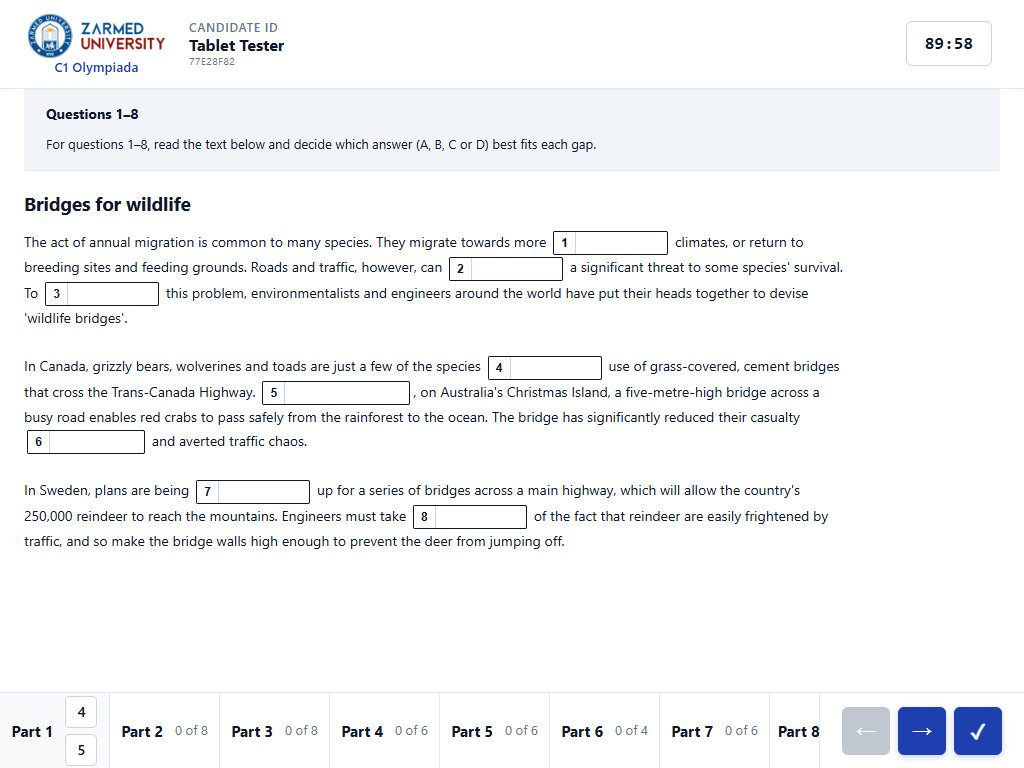
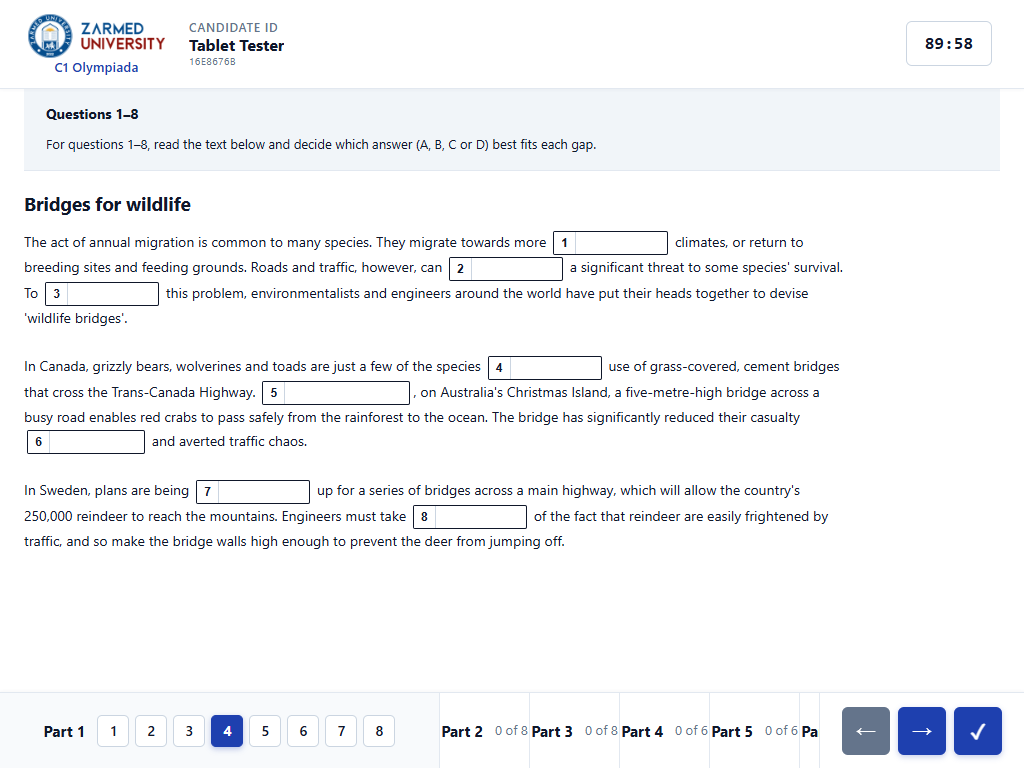
eye: round 28b — fix active-nav question number clipping at 1024x768
Real T2 student-facing bug found while walking the tablet viewport.

At 1024x768 (common lab-PC resolution), a student opening Part 1 saw
ONLY "Part 1" in the active nav cell — all 8 question numbers were
rendered but clipped OUTSIDE the cell's visual bounds. Same for Part 4
(showed 2/6 numbers) and Part 8 (showed 0/10). The buttons physically
existed in the DOM (round 22's question-number badges), but the
active cell's flex: 3.5 share at 1024px collapsed to ~113px wide,
forcing the numbers into a wrapped 2-3 row stack that overflowed the
76px fixed nav bar height.

Measured at 1024x768 with Part 4 active BEFORE fix:
  activeCell: y=693-768 (75px tall)
  q25: y=620-652 — ABOVE the cell (hidden, above viewport)
  q26: y=658-690 — ABOVE the cell
  q27: y=696-728 — inside ✓
  q28: y=734-766 — inside ✓
  q29: y=772-804 — BELOW the viewport
  q30: y=810-842 — BELOW

A student on Part 4 would see "Part 4  27  28" and never know q25,
q26, q29, q30 existed without clicking through with the arrow button.

Root cause: no breakpoint between @media 540px (mobile) and no rule
at 880px–1199px (tablet / medium desktop). The 880px fallback set
.ct-nav-part--active { flex: 3 } which made the problem WORSE, not
better. Medium viewports fell through to the desktop rules which
assume ~1400px of horizontal space.

Fix (CSS-only, 12 lines):
  @media (min-width: 881px) and (max-width: 1199px) {
    .ct-nav-part { min-width: 90px; padding: 10px 10px; }
[…]

Changed region(s): [[0.0, 0.9062, 0.875, 1.0], [0.1875, 0.0625, 0.2188, 0.0938]]

diff --git a/zarmet-olympiada/public/css/styles.css b/zarmet-olympiada/public/css/styles.css
@@ -1624,6 +1624,26 @@ body.zu-test-body .ct-nav-finish:focus-visible {
   .ct-nav-part--active { flex: 3; }
 }
 
+/* Medium viewports (881px–1199px): common lab-PC range covering 1024x768
+ * and 1280x720. At 1024x768 the active .ct-nav-part cell was too narrow
+ * (~113px) to fit 6–10 question-number buttons on one row, so they wrapped
+ * to 2–3 rows and were clipped below the 76px fixed nav bar — students
+ * on Part 1 (8 questions) or Part 8 (10 questions) saw only "Part 1" with
+ * NO visible question numbers, and Part 4 (6 questions) showed only 2/6.
+ * Fix: give the active cell an explicit min-width wide enough for 10
+ * numbered buttons on a single row (10 × 32 + 9 × 6 gap + label ≈ 440px).
+ * Inactive cells shrink their min-width to 90px so the horizontal scroll
+ * bar only kicks in at ~1100px — below that, round 14's scrollIntoView
+ * keeps the active cell visible while inactive cells scroll off-screen. */
+@media (min-width: 881px) and (max-width: 1199px) {
+  .ct-nav-part { min-width: 90px; padding: 10px 10px; }
+  .ct-nav-part--active {
+    flex: 4;
+    min-width: 440px;
+  }
+  .ct-nav-part-numbers { flex-wrap: nowrap; }
+}
+
 /* Mobile (iPhone-class and below): tighten header padding + gap so
  * logo, candidate ID, and timer don't fight for the same 375px. The
  * candidate ID label goes smaller and the header itself collapses
